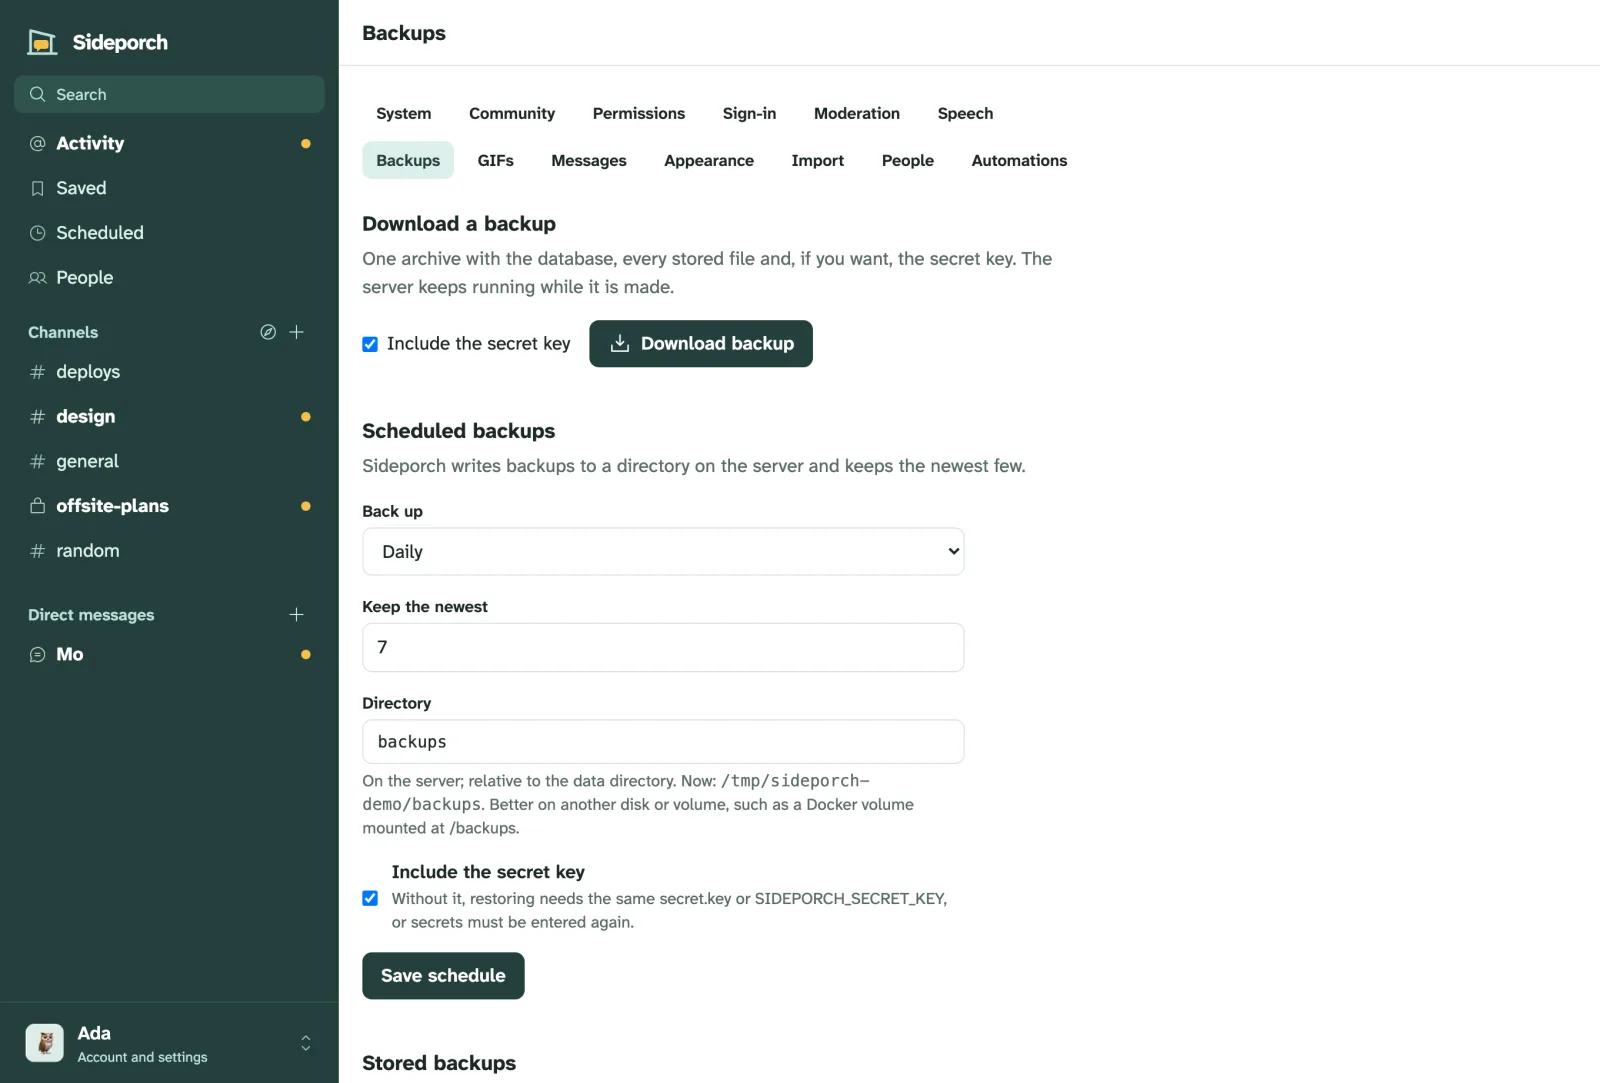
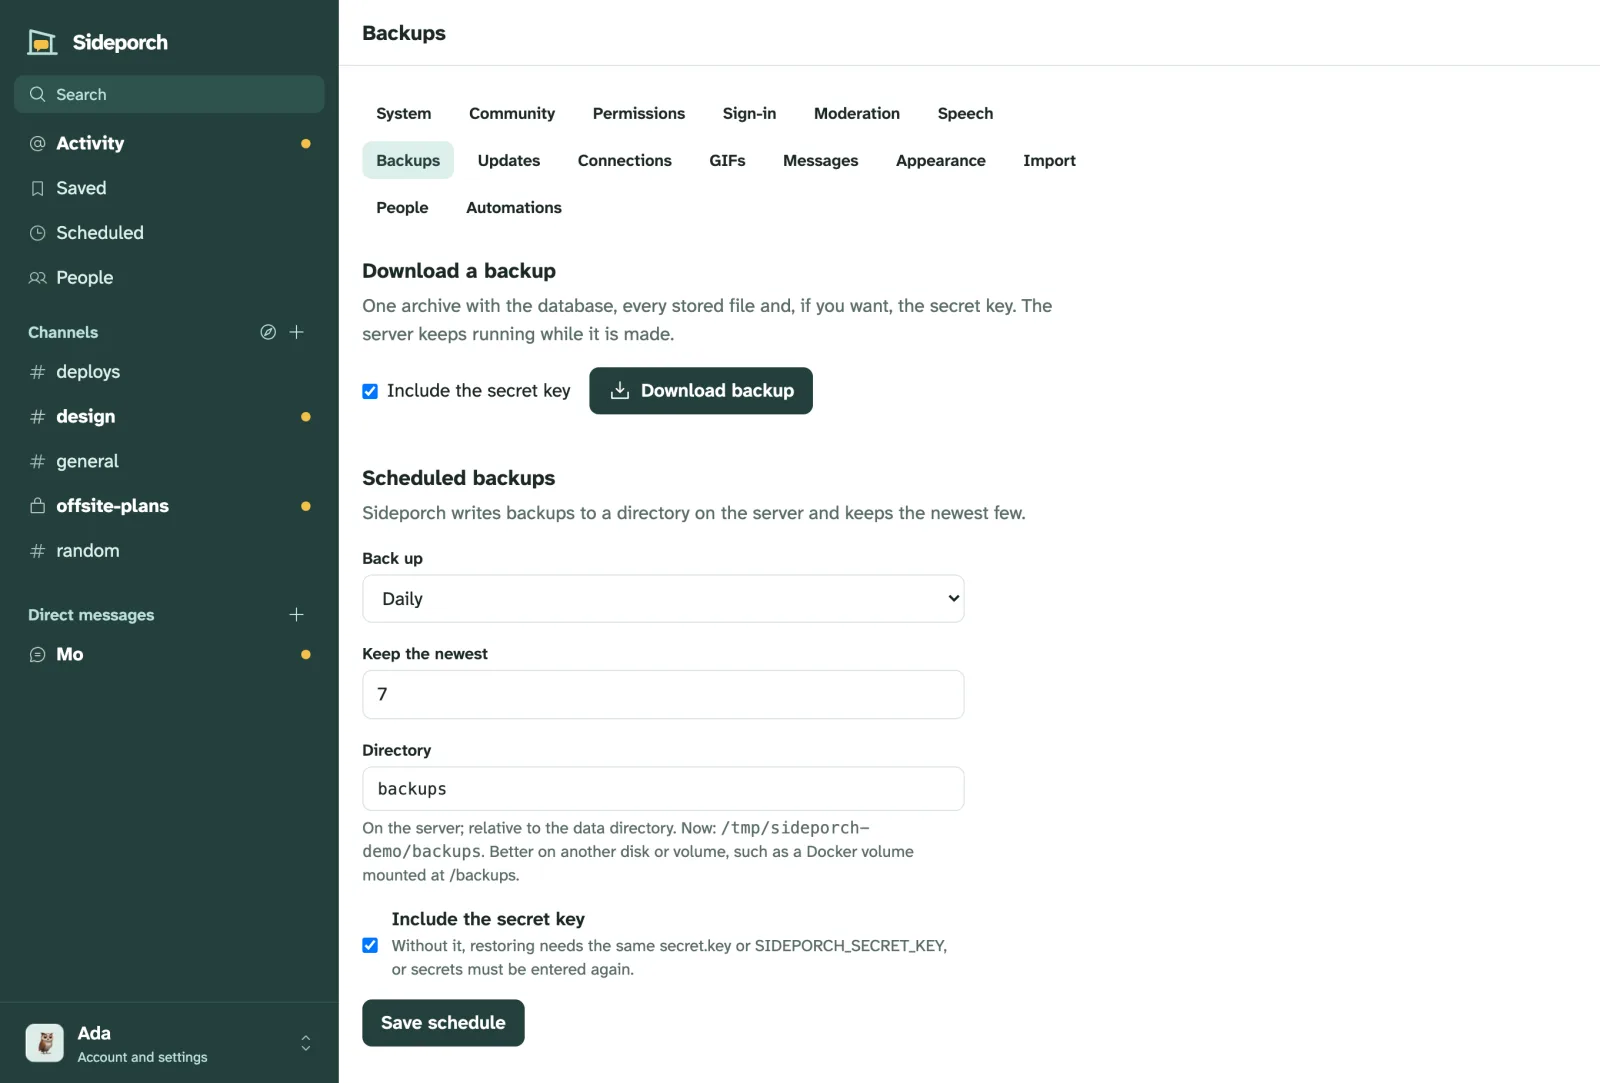
docs: retake the screenshots with the new admin tabs, and show Admin → Connections

diff --git a/website/content/docs/community/other-servers.md b/website/content/docs/community/other-servers.md
@@ -14,6 +14,8 @@ Each server needs its public address, so start both with [`--public-url`](@/docs
 2. Enter the other server's address under **Connect to another Sideporch**, add a note for their admin, and select **Ask to connect**.
 3. Their admin sees your request, with your note and your server's **key fingerprint**, under **Admin → Connections**, and selects **Accept** or **Decline**.
 
+{{<shot name="connections" alt="Admin, Connections: this server's address, key fingerprint and name, and a form to ask another Sideporch to connect, with its address and a note for its admin." caption="Admin → Connections: your server's name and key, and asking another server to connect." />}}
+
 {% <note kind="tip"> %}
 Before accepting, compare the key fingerprint with the other admin, for example on a call. Both of you see each fingerprint on the Connections page. If they match, you are talking to the server you think you are.
 {% </note> %}
